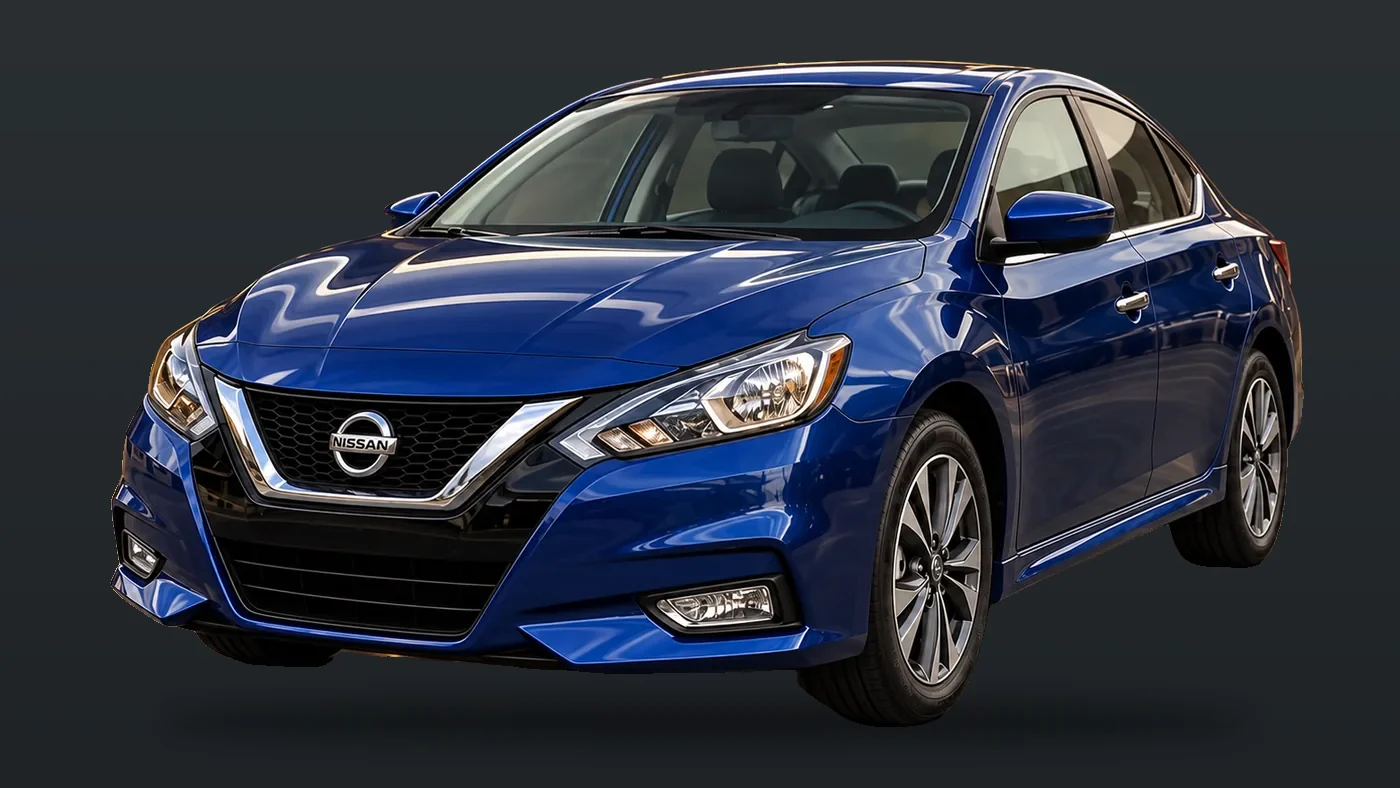
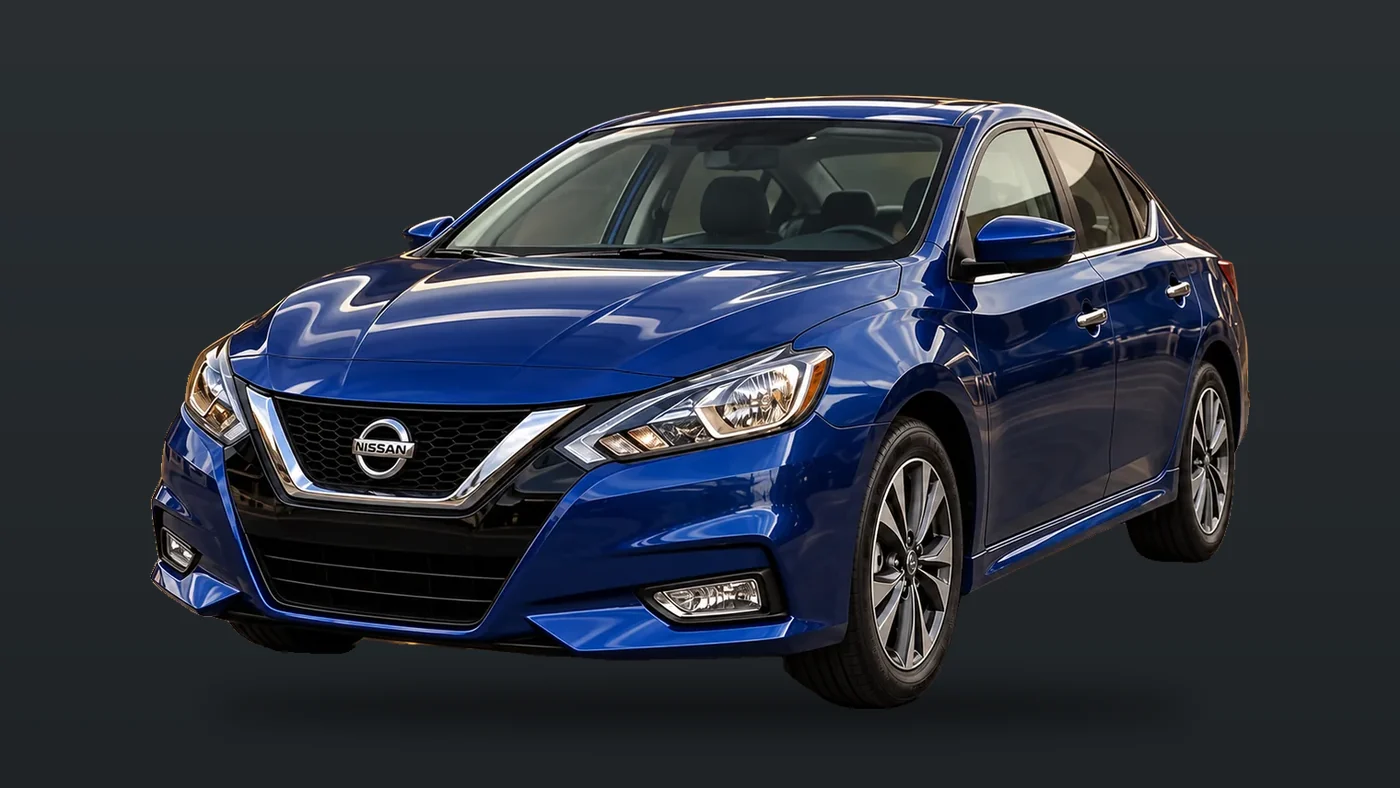
Catálogo: autos normalizados (mismo tamaño, centrados, mismo piso) y tarjeta 16:9

diff --git a/app/_components/HomeClient.tsx b/app/_components/HomeClient.tsx
@@ -801,7 +801,7 @@ const styles = `
   .er-cat { width:100%; display:flex; flex-direction:column; text-align:left; background:var(--card); border:1px solid var(--line); border-radius:16px; overflow:hidden; padding:0; cursor:pointer; color:var(--tx); font-family:var(--sans); transition:border-color 0.18s var(--ease), transform 0.18s var(--ease); }
   .er-cat:hover { border-color:#4A535B; transform:translateY(-2px); }
   .er-cat.is-selected { border-color:var(--gold); box-shadow:inset 0 0 0 1px rgba(200,167,110,0.6); }
-  .er-cat img { display:block; width:100%; height:auto; aspect-ratio:16 / 10; object-fit:cover; background:#24292D; }
+  .er-cat img { display:block; width:100%; height:auto; aspect-ratio:16 / 9; object-fit:cover; background:#24292D; }
   .er-cat-body { display:flex; flex-direction:column; gap:6px; padding:18px 18px 20px; flex:1; }
   .er-cat-name { font-family:var(--serif); font-size:27px; font-weight:500; line-height:1.05; }
   .er-cat-tag { font-size:12px; color:var(--tx2); letter-spacing:0.03em; min-height:2.6em; }
